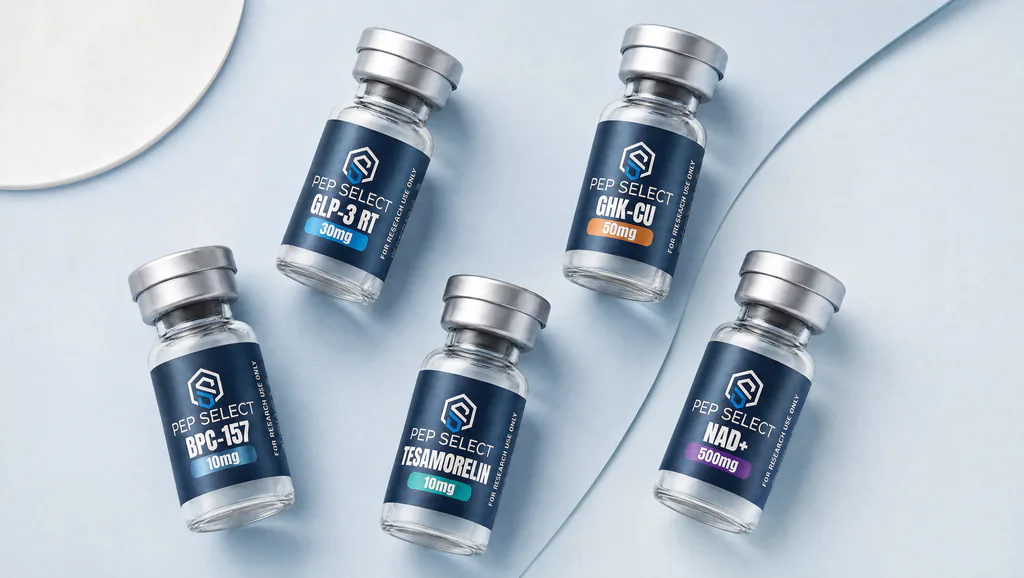
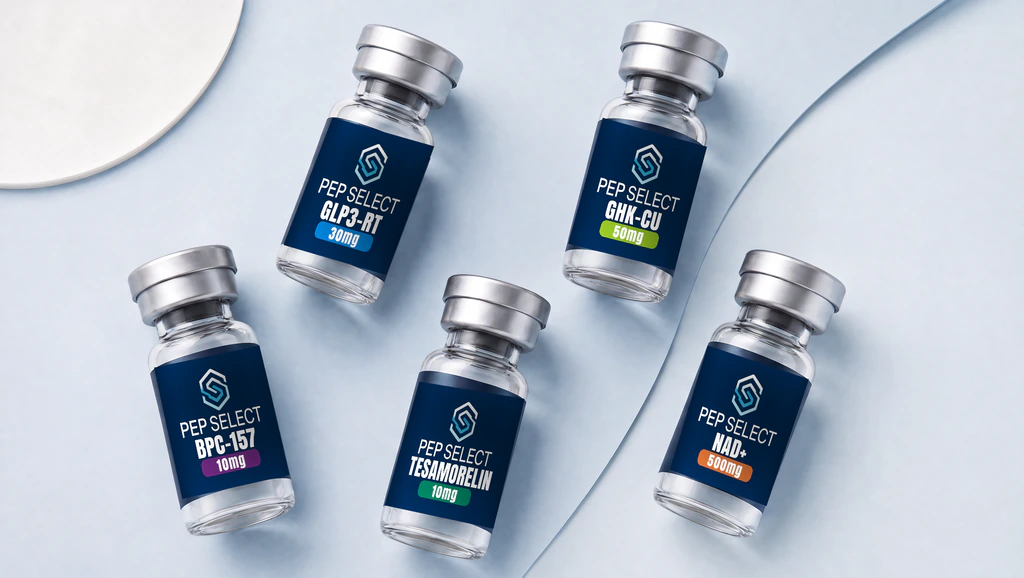
Update homepage hero label artwork

diff --git a/pepselect-child/style.css b/pepselect-child/style.css
@@ -3,7 +3,7 @@ Theme Name: Pep Select
 Description: Lightweight Hello Elementor child theme for the Pep Select customer-facing presentation layer.
 Author: Pep Select
 Template: hello-elementor
-Version: 0.25.0-beta.50
+Version: 0.25.0-beta.51
 Requires at least: 6.4
 Requires PHP: 7.4
 Text Domain: pepselect-child

diff --git a/pepselect-child/CHANGELOG.md b/pepselect-child/CHANGELOG.md
@@ -1,5 +1,13 @@
 # Changelog
 
+**Release candidate: 0.25.0-beta.51** - Apply the approved new labels to the homepage hero lineup.
+
+## 0.25.0-beta.51 - 2026-08-22
+
+- Replace only the printed label artwork on the five homepage hero vials with the approved GLP-3 RT, GHK-CU, BPC-157, Tesamorelin, and NAD+ labels.
+- Preserve the original hero crop, vial positions, caps, glass, lighting, reflections, shadows, background, colors, and responsive presentation.
+- Regenerate the existing seven optimized WebP hero sizes without changing homepage structure or copy.
+
 **Release candidate: 0.25.0-beta.50** - Apply the approved Tesamorelin label to the homepage batch-matching visual.
 
 ## 0.25.0-beta.50 - 2026-08-21
